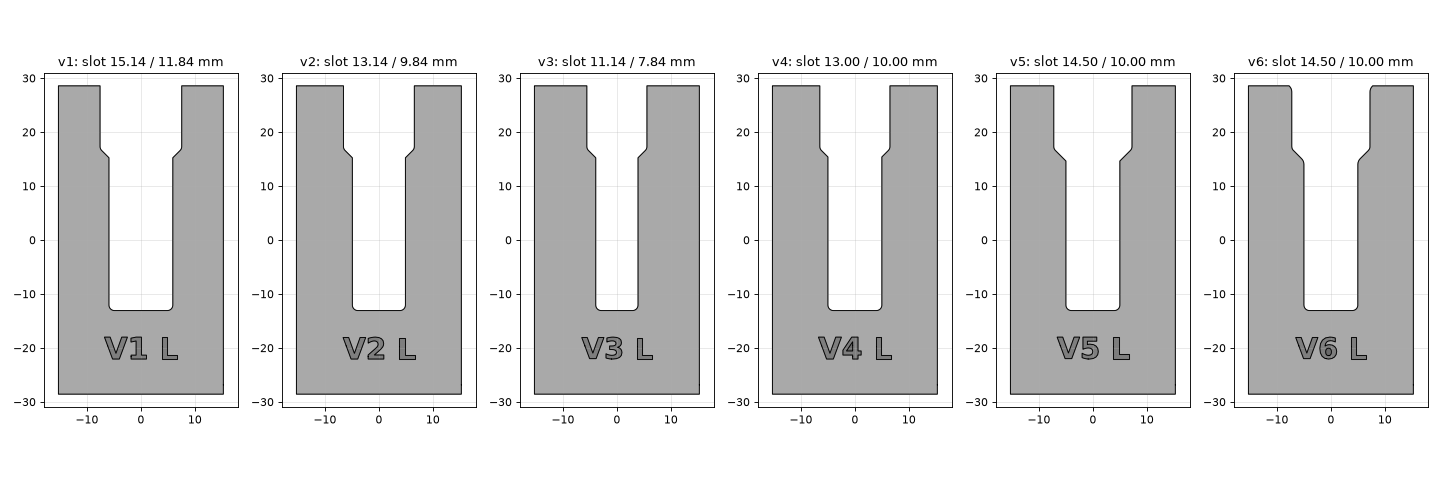
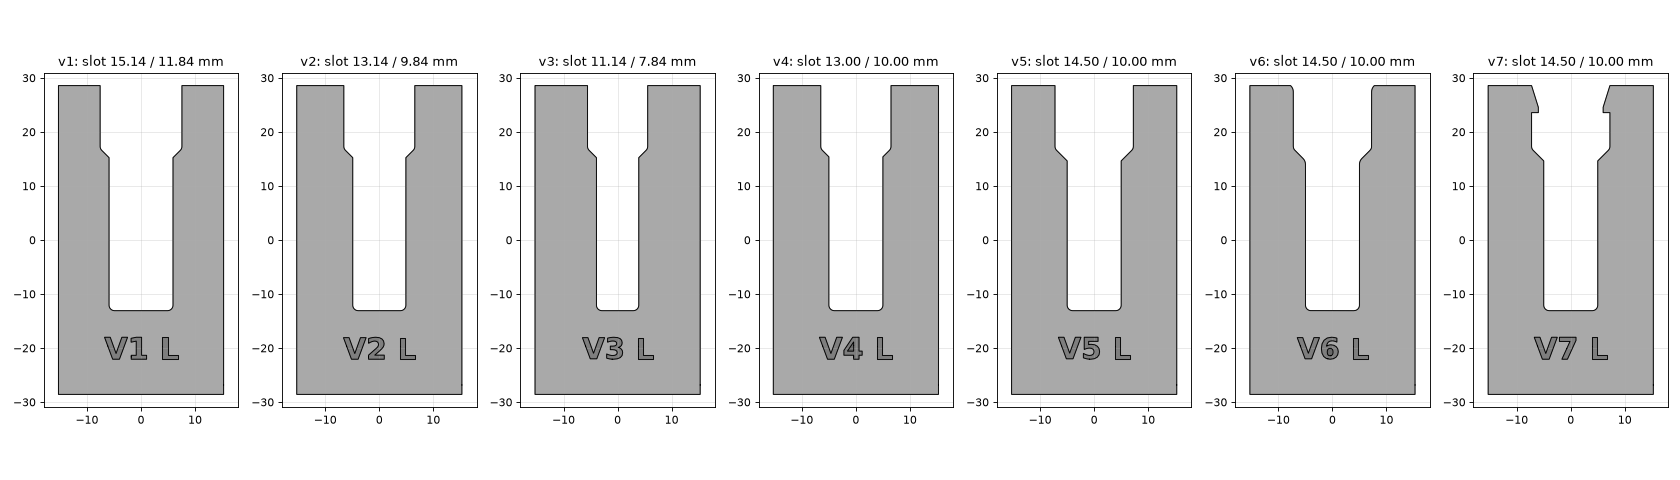
Add v7: v5 plus snap-fit barbs copied from the stock part
Barbs at the top of each slot arm: 12 mm tip-to-tip (caliper-measured),
a ramp over the top 4 mm, a 1 mm tip flat and a flat latching ledge 5 mm
below the top edge. Barbs are added after the slot rounding so the ledge
stays sharp. v1-v6 geometry is unchanged.

diff --git a/shredlight_mount.py b/shredlight_mount.py
@@ -56,6 +56,9 @@ GAP = DEPTH - T  # space under the front lip for the light's flange (3/16")
 #   upper/lower: exact final slot widths in mm (FIT is not added).
 # Optional, in mm: lead_in (45-degree chamfer at the slot entrance, per side) and
 # step_radius (rounds the edges where the 45-degree step meets the lower slot).
+# Snap-fit barbs at the top of each arm, copied from the stock part (all in mm):
+# barb_gap (tip to tip), barb_ledge (top edge down to the flat latching ledge) and
+# barb_flat (vertical flat at the tip; the ramp runs from the top edge down to it).
 VERSIONS = {
     1: {"narrow": 0.0},  # 15.14/11.84 mm, photo-measured: side-to-side play. Obsolete.
     2: {"narrow": 2.0},  # 13.14/9.84 mm: snug, but the upper slot spreads ~1 mm on insert.
@@ -65,6 +68,9 @@ VERSIONS = {
     # v6: holds the light less well, it slides out more easily. Likely the lead-in rounding
     # the sharp top corners that the light's clamp catches on.
     6: {"upper": 14.5, "lower": 10.0, "lead_in": 0.5, "step_radius": 1.5},
+    # v7: v5 + snap-fit barbs (gap from calipers; ledge set above the 5.3-6.1 mm photo
+    # estimates so the light seats fully before it latches).
+    7: {"upper": 14.5, "lower": 10.0, "barb_gap": 12.0, "barb_ledge": 5.0, "barb_flat": 1.0},
 }
 
 # --- Version label, engraved into the front lip below the slot ---
@@ -80,10 +86,11 @@ def slot_half_widths(narrow=0.0, upper=None, lower=None, **_):
     return (SLOT_UPPER_W - narrow) / 2 + FIT, (SLOT_LOWER_W - narrow) / 2 + FIT
 
 
-def slot_profile(uw, lw, lead_in=0.0, step_radius=0.0, **_):
+def slot_profile(uw, lw, lead_in=0.0, step_radius=0.0,
+                 barb_gap=0.0, barb_ledge=0.0, barb_flat=0.0, **_):
     """U-slot in the front face; origin at the bottom-centre of the receiver.
 
-    uw, lw are half-widths in inches; lead_in and step_radius are in mm.
+    uw, lw are half-widths in inches; everything else is in mm.
     """
     step_top = H - SLOT_UPPER_LEN
     step_bot = step_top - (uw - lw)  # 45-degree transition
@@ -102,6 +109,13 @@ def slot_profile(uw, lw, lead_in=0.0, step_radius=0.0, **_):
         r = step_radius / IN
         slot = slot.offset(r, JoinType.Round, circular_segments=32).offset(
             -r, JoinType.Round, circular_segments=32)
+    if barb_gap:
+        # Added after the rounding so the latching ledge stays flat and sharp-cornered.
+        gw, ledge, flat = barb_gap / IN / 2, barb_ledge / IN, barb_flat / IN
+        root = uw + 0.5 / IN  # overlap into the arm
+        barb = [(-root, H), (-uw, H), (-gw, H - ledge + flat), (-gw, H - ledge), (-root, H - ledge)]
+        mirrored = [(-x, y) for x, y in barb]
+        slot = slot - CrossSection([barb, mirrored], FillRule.EvenOdd)
     if DETENT:
         notch = CrossSection.circle(DETENT_RADIUS, 32).translate(
             [uw, H - DETENT_FROM_TOP])

diff --git a/README.md b/README.md
@@ -19,6 +19,7 @@ Approximately 30 × 57 × 6.6 mm (1-3/16 × 2-1/4 × 1/4"):
 
 - **Front lip** (1/16"), with a U-slot that has a wide upper section, a 45° step and a narrower lower section
 - **Side walls and bottom wall** (1/16"), which form a 3/16" pocket under the lip for the light's flange
+- **Snap-fit barbs** (v7 and later) at the top of each arm. The light cams the arms apart as it slides in, then a flat ledge latches over it.
 - **Open back.** The board closes the pocket, just as it does on the metal part. Set `BACK_SHEET = True` to close it in plastic.
 
 ![Slices through the part](docs/sections.png)
@@ -35,6 +36,7 @@ Each version is engraved on the front lip (e.g. `V2 L`), so a printed part can b
 | v4 | 13.00 / 10.00 mm | Works, but the upper slot also spreads about 1 mm. |
 | v5 | 14.50 / 10.00 mm | Upper widened by the measured spread plus clearance. No deformation. **Winning fit.** |
 | v6 | 14.50 / 10.00 mm | v5's fit, plus a rounded lead-in at the slot entrance and 1.5 mm fillets on the step edges. Holds less well, and the light slides out more easily. Not recommended. |
+| v7 | 14.50 / 10.00 mm | v5 plus snap-fit barbs copied from the stock part: 12 mm tip-to-tip gap, flat latching ledge 5 mm below the top. **Being tested.** |
 
 The STLs are in [`out/`](out), in millimetres. Print `shredlight_mount_left_v5.stl` and `shredlight_mount_right_v5.stl`.
 
@@ -64,6 +66,7 @@ version, add an entry to `VERSIONS`: either `{"narrow": mm}` from the measured s
 
 - [x] Final slot: v5 (14.5 / 10 mm)
 - [x] v6 (lead-in and step fillets): holds worse, so v5 stays
+- [ ] Test v7 (v5 + snap-fit barbs)
 - [ ] Design what the mount attaches to on the board
 
 ## License
